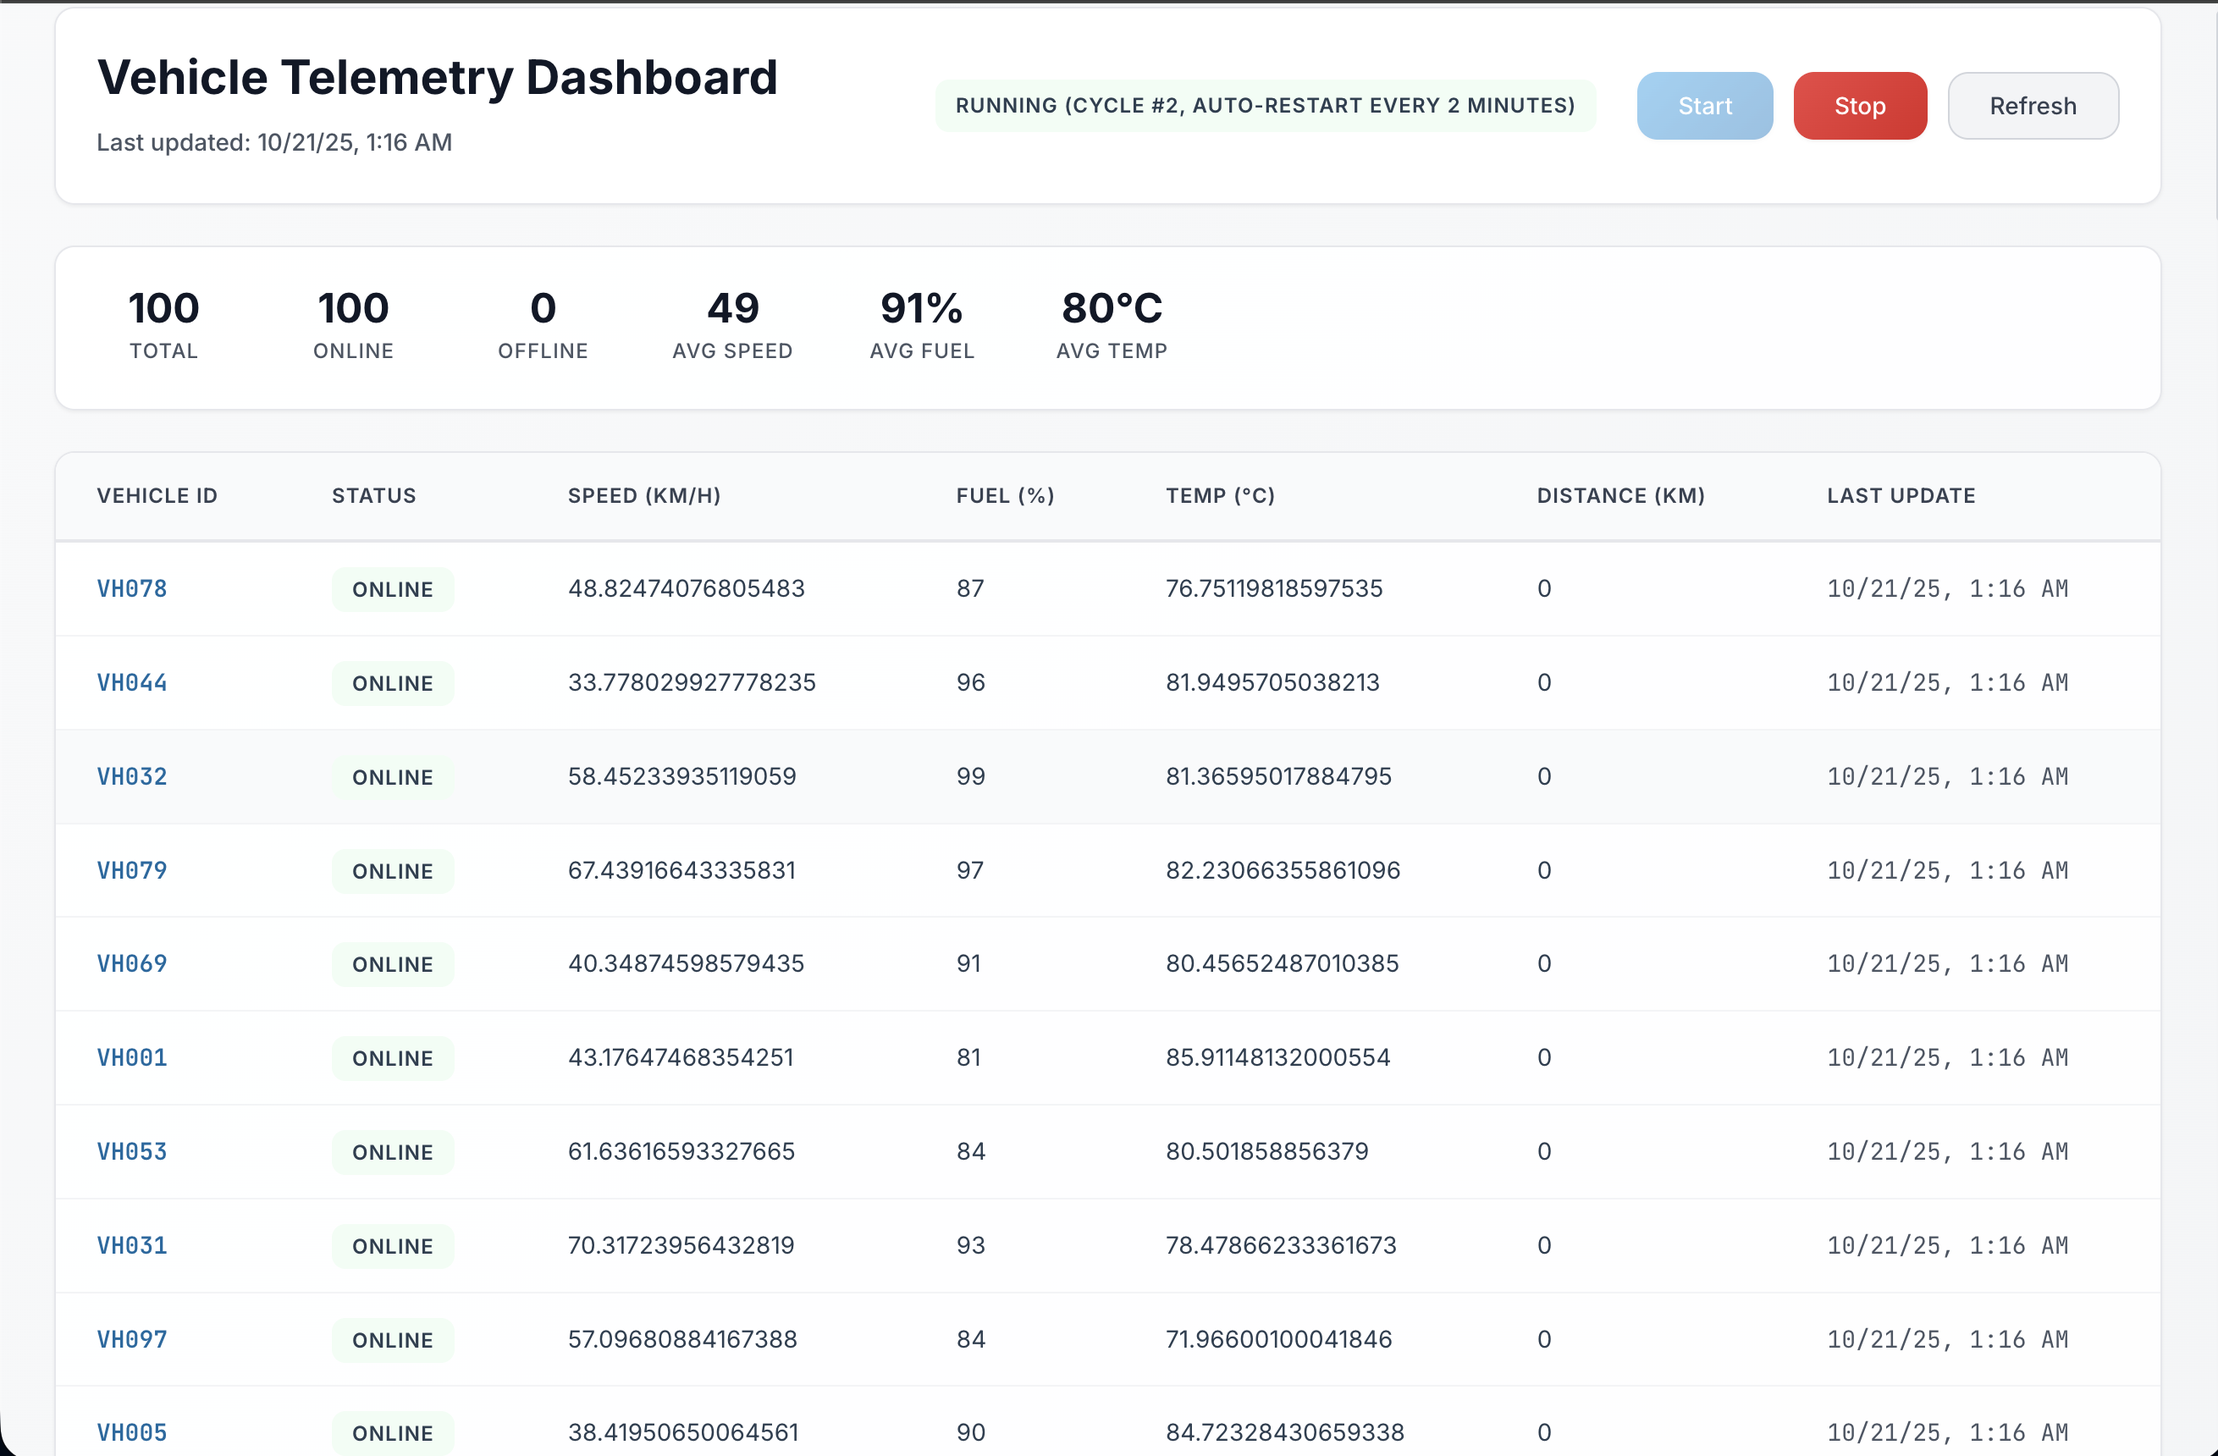
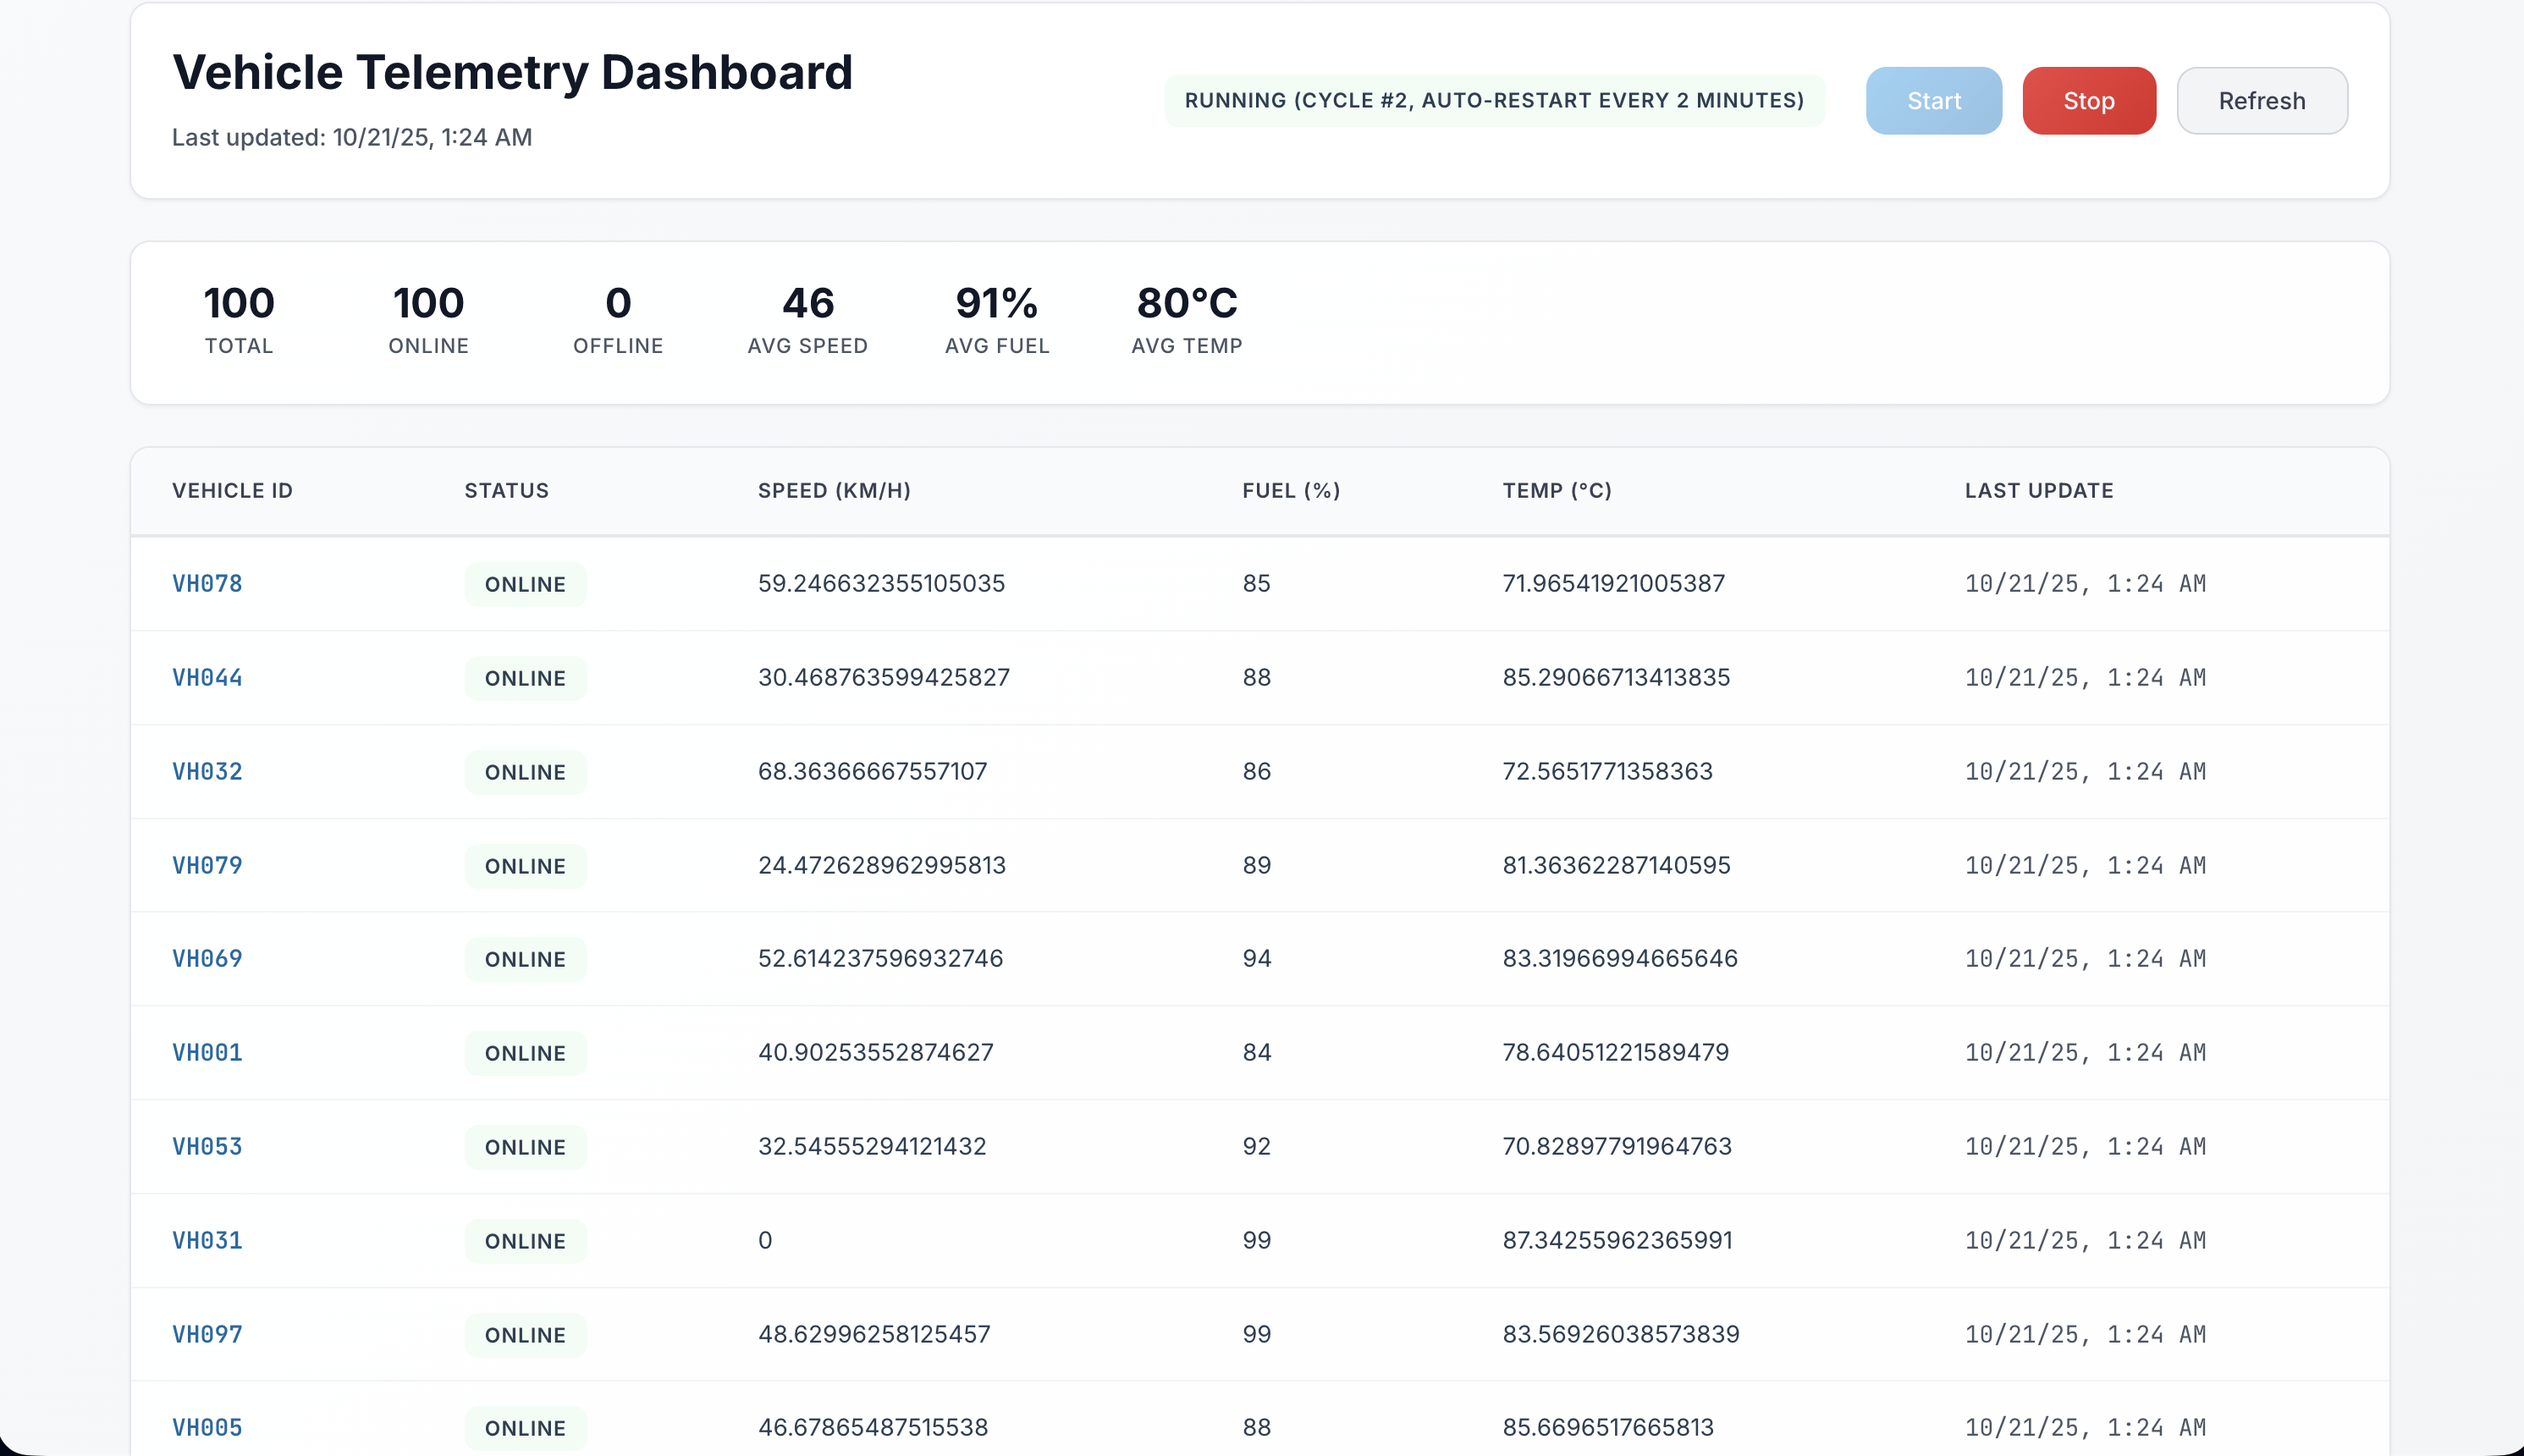
updates

diff --git a/frontend/src/app/components/dashboard/dashboard.component.html b/frontend/src/app/components/dashboard/dashboard.component.html
@@ -87,13 +87,12 @@
             <th>Speed (km/h)</th>
             <th>Fuel (%)</th>
             <th>Temp (°C)</th>
-            <th>Distance (km)</th>
             <th>Last Update</th>
           </tr>
         </thead>
         <tbody>
           <tr class="empty-row">
-            <td colspan="7" class="empty-message">
+            <td colspan="6" class="empty-message">
               <span>No vehicle data available</span>
             </td>
           </tr>
@@ -142,7 +141,6 @@
             <th>Speed (km/h)</th>
             <th>Fuel (%)</th>
             <th>Temp (°C)</th>
-            <th>Distance (km)</th>
             <th>Last Update</th>
           </tr>
         </thead>
@@ -157,7 +155,6 @@
             <td>{{ vehicle.currentSpeed }}</td>
             <td>{{ vehicle.fuelLevel }}</td>
             <td>{{ vehicle.engineTemp }}</td>
-            <td>{{ vehicle.totalDistance | number:'1.0-0' }}</td>
             <td class="timestamp">{{ vehicle.lastUpdate | date:'short' }}</td>
           </tr>
         </tbody>
